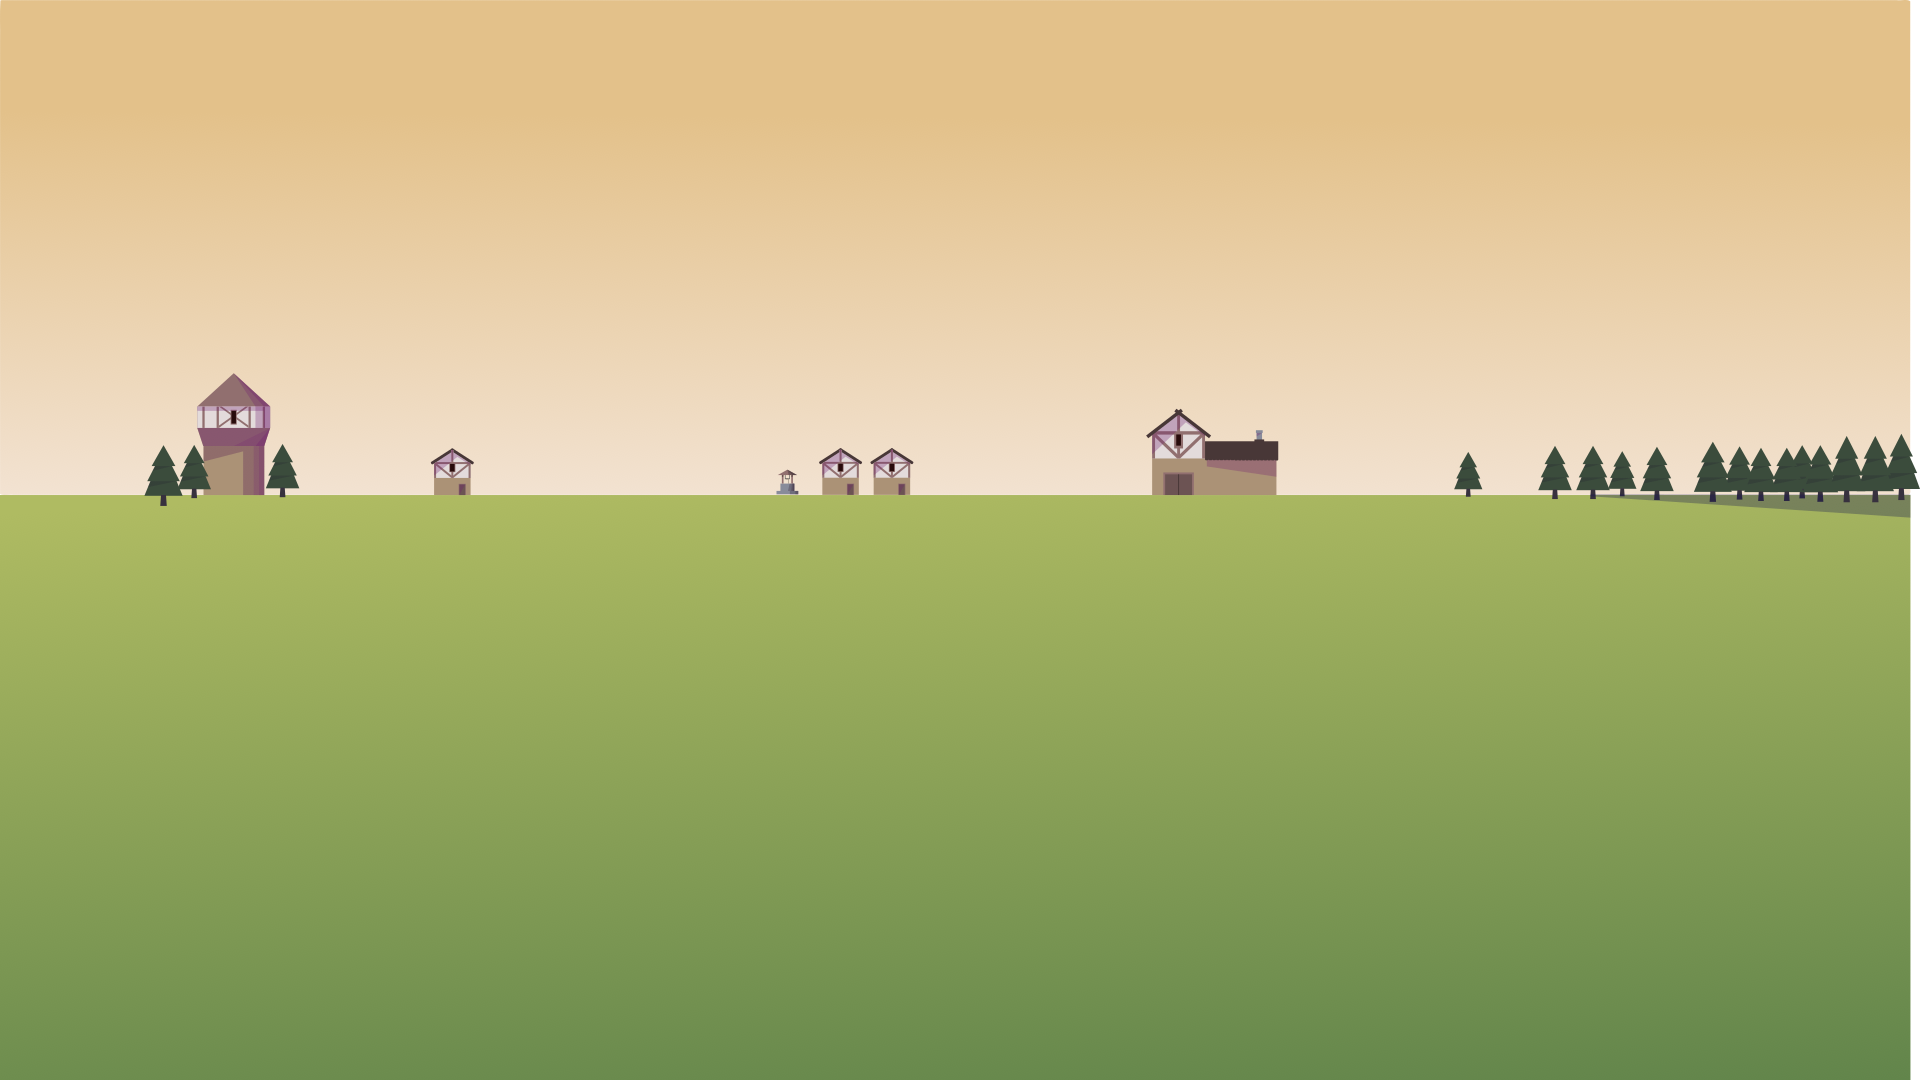
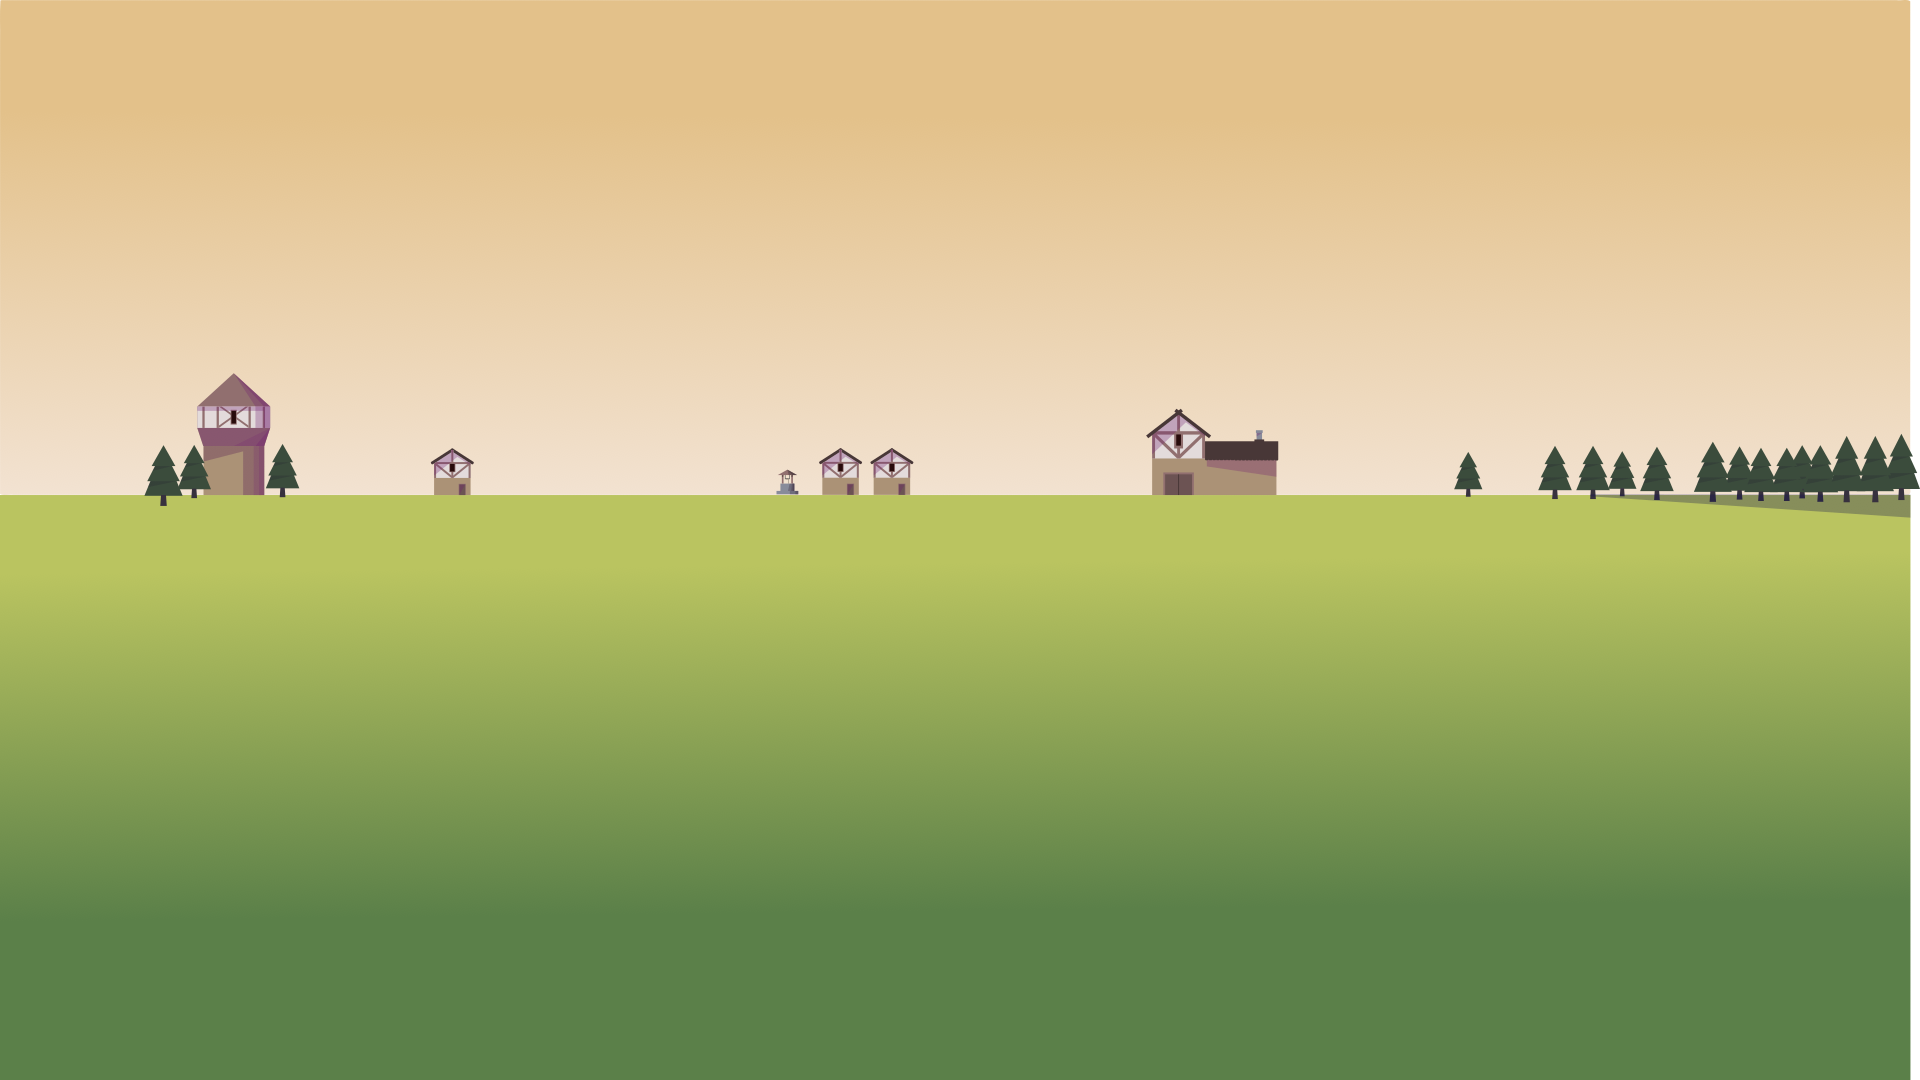
Added more textures

Changed region(s): [[0.0, 0.7639, 1.0, 0.9778], [0.7188, 0.4889, 1.0, 0.55]]

diff --git a/src/SettingsButton.cs b/src/SettingsButton.cs
@@ -1,0 +1,20 @@
+using Godot;
+using System;
+
+public partial class SettingsButton : TextureButton {
+	ShaderMaterial defaultMaterial;
+	ShaderMaterial hoverMaterial;
+	public override void _Ready() {
+		defaultMaterial = ResourceLoader.Load<ShaderMaterial>("res://assets/shaders/Default.tres");
+		hoverMaterial = ResourceLoader.Load<ShaderMaterial>("res://assets/shaders/Hover.tres");
+		MouseEntered += () => {
+			Material = hoverMaterial;
+		};
+		MouseExited += () => {
+			Material = defaultMaterial;
+		};
+	}
+
+	public override void _Process(double delta) {
+	}
+}

diff --git a/src/InfoButton.cs b/src/InfoButton.cs
@@ -1,0 +1,20 @@
+using Godot;
+using System;
+
+public partial class InfoButton : TextureButton {
+	ShaderMaterial defaultMaterial;
+	ShaderMaterial hoverMaterial;
+	public override void _Ready() {
+		defaultMaterial = ResourceLoader.Load<ShaderMaterial>("res://assets/shaders/Default.tres");
+		hoverMaterial = ResourceLoader.Load<ShaderMaterial>("res://assets/shaders/Hover.tres");
+		MouseEntered += () => {
+			Material = hoverMaterial;
+		};
+		MouseExited += () => {
+			Material = defaultMaterial;
+		};
+	}
+
+	public override void _Process(double delta) {
+	}
+}
